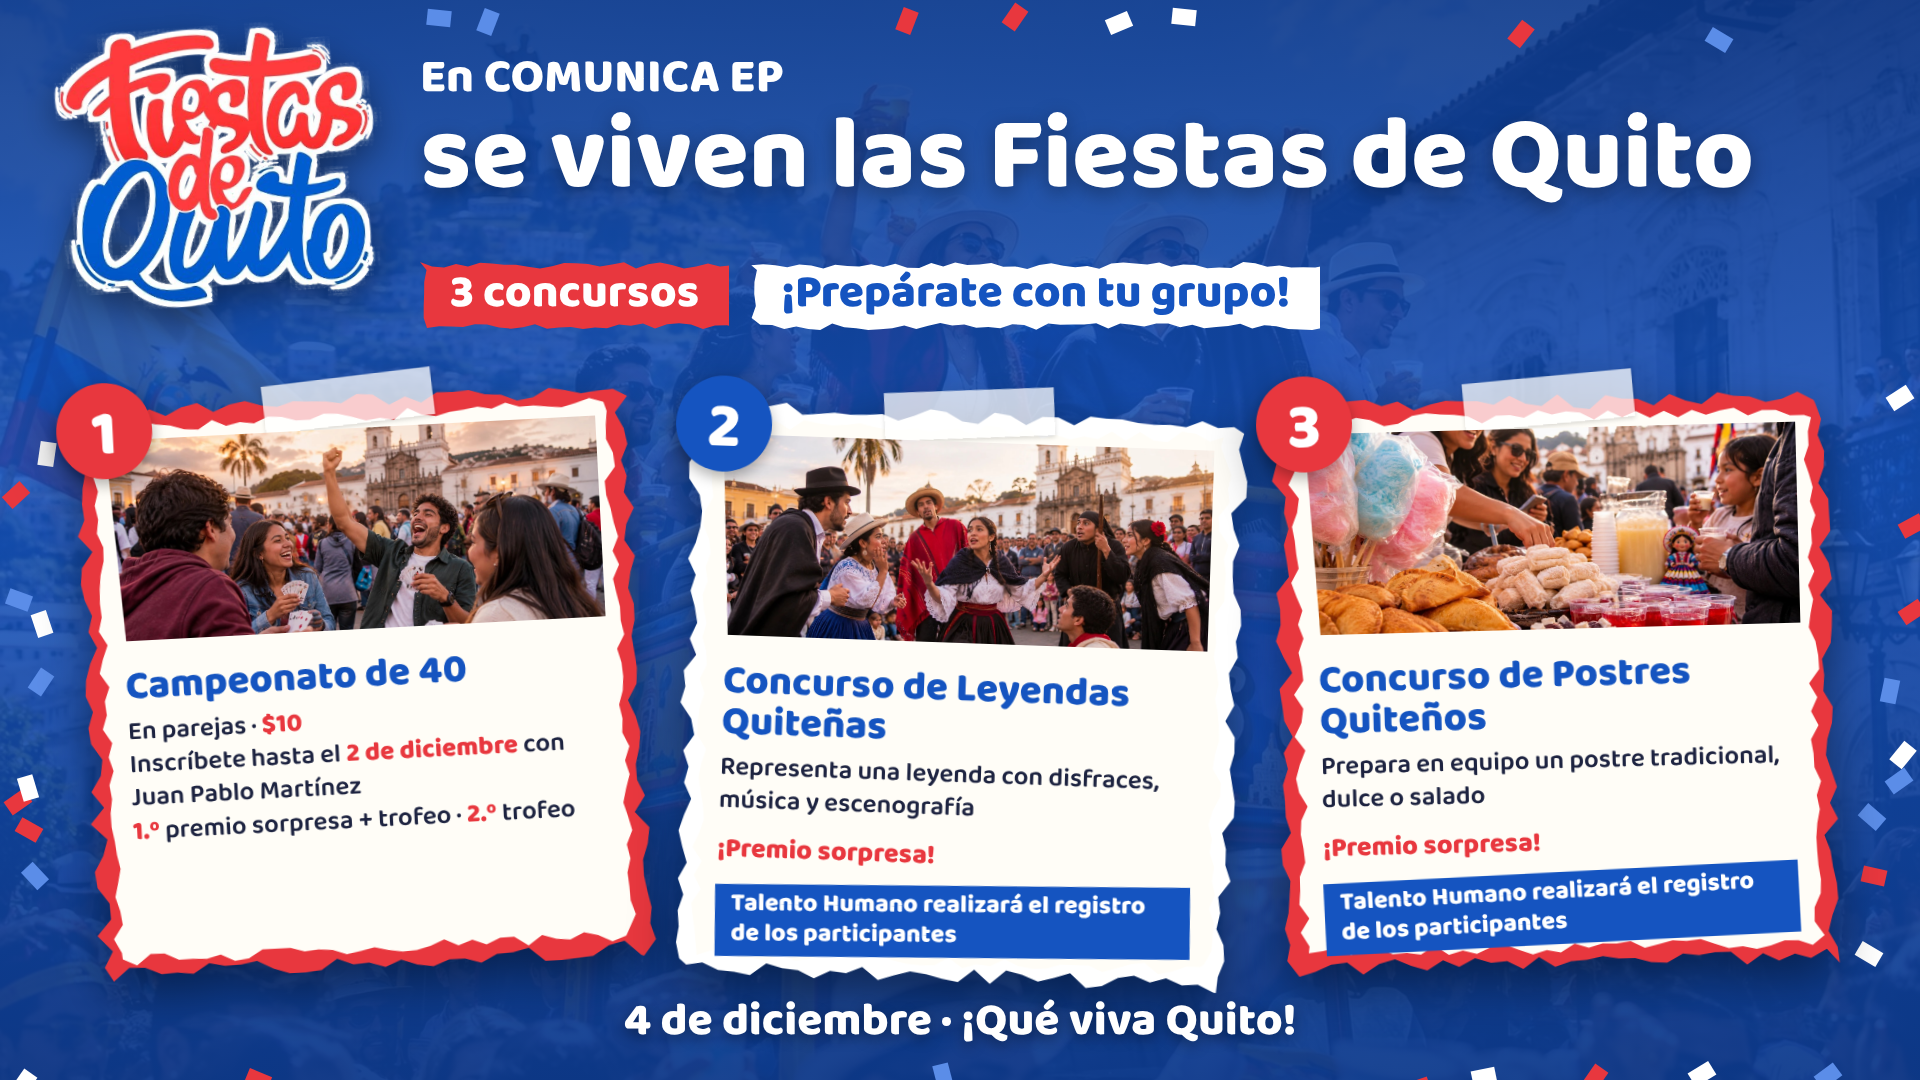
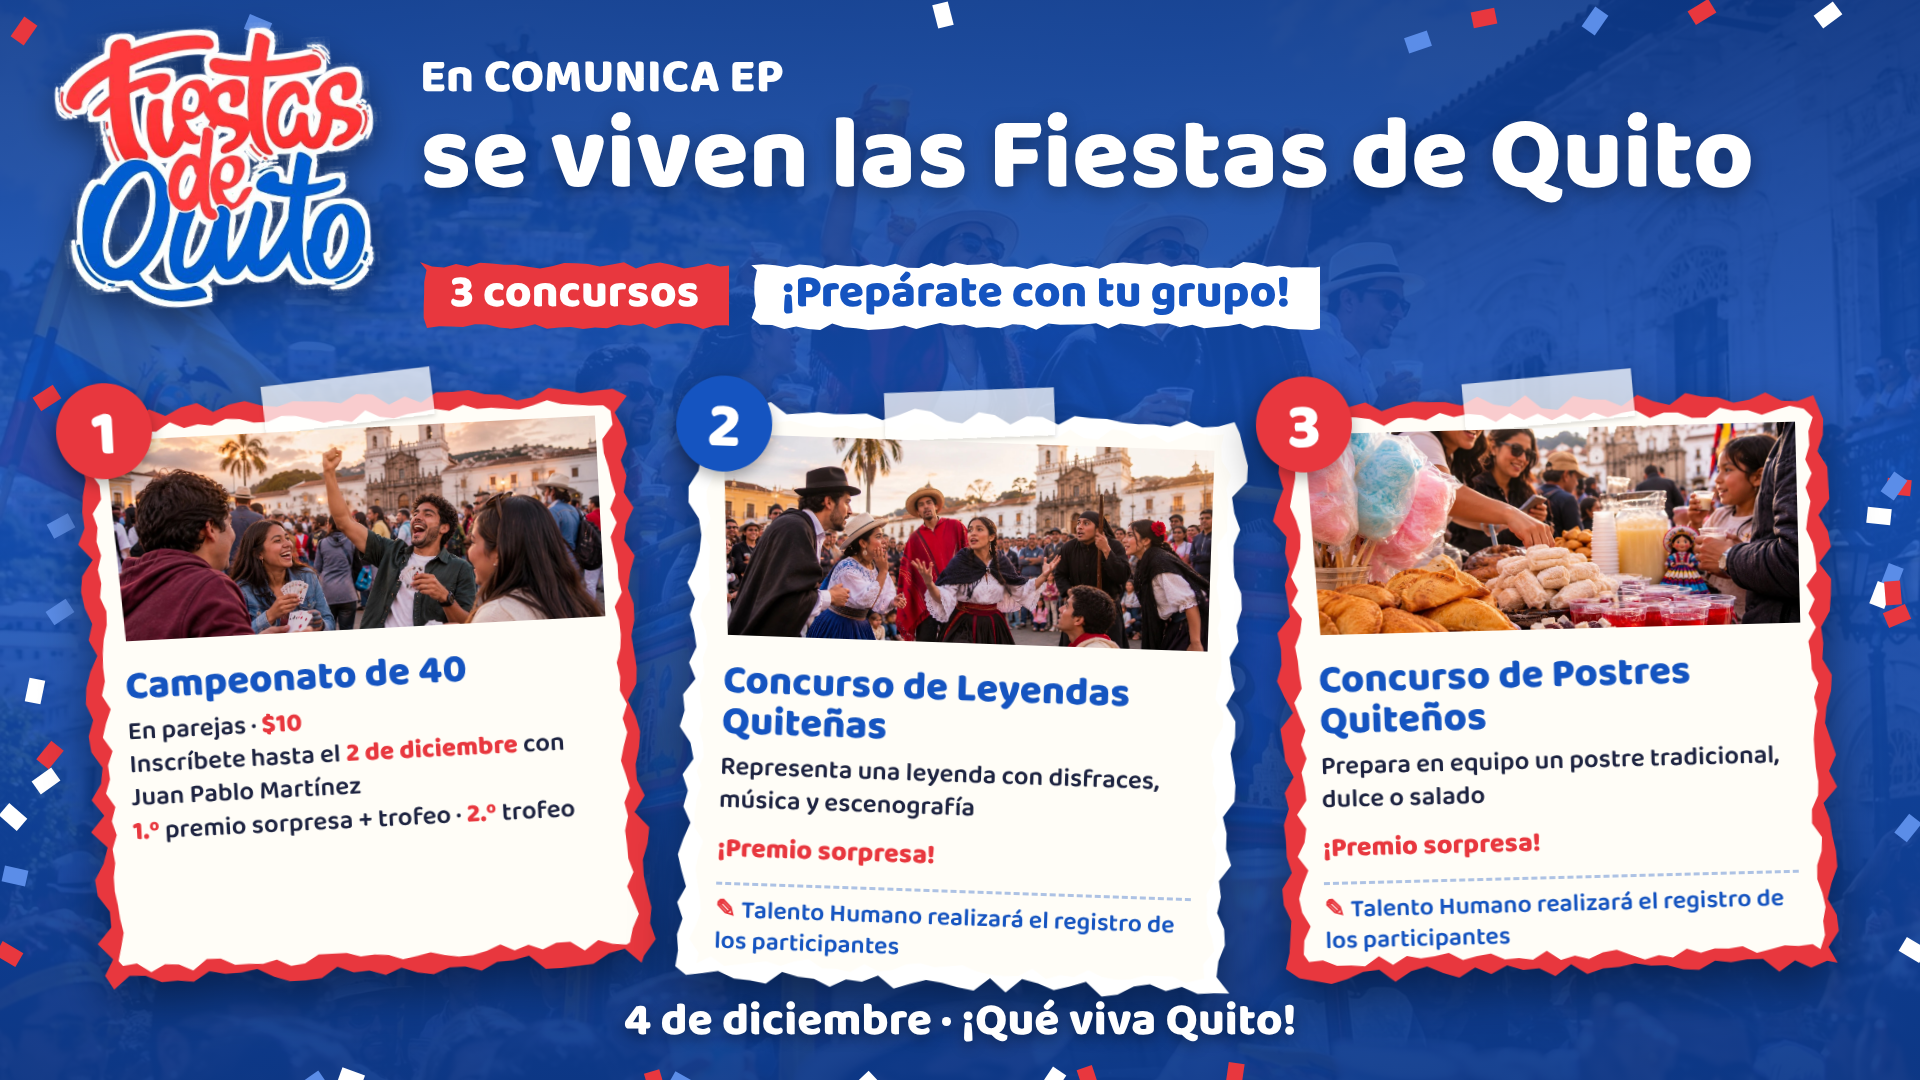
Fiestas de Quito art: registration note as simple text instead of blue box
Claude-Session: https://claude.ai/code/session_01XV7Zhs1JRrkW5hokRDRSy2

diff --git a/videos/fiestas-quito/arte/resumen.html b/videos/fiestas-quito/arte/resumen.html
@@ -34,7 +34,9 @@
       .card .tape { position: absolute; top: -34px; left: 50%; width: 170px; height: 48px; margin-left: -85px; background: rgba(255, 255, 255, 0.75); transform: rotate(-4deg); box-shadow: 0 2px 4px rgba(0, 0, 0, 0.15); }
       .go { display: flex; flex-wrap: wrap; align-items: center; gap: 8px 14px; margin: 10px 8px 0; font-size: 27px; }
       .go b { font-weight: 800; color: var(--red); }
-      .reg { display: inline-block; padding: 4px 16px 8px; background: var(--blue); color: #fff; font-weight: 800; font-size: 25px; line-height: 1.2; transform: rotate(-1.5deg); }
+      /* nota de registro: texto simple con ícono, separada por una línea punteada */
+      .reg { display: block; width: 100%; margin-top: 4px; padding-top: 10px; border-top: 3px dashed rgba(21, 84, 192, 0.35); color: var(--blue); font-weight: 600; font-size: 25px; line-height: 1.25; }
+      .reg::before { content: "✎ "; color: var(--red); font-weight: 800; }
       .flags { position: absolute; left: 0; top: 330px; width: 1920px; height: 90px; z-index: 1; }
       .cards, .head, .sub, .logo, .foot { z-index: 3; }
       #confetti { position: absolute; inset: 0; z-index: 2; }
